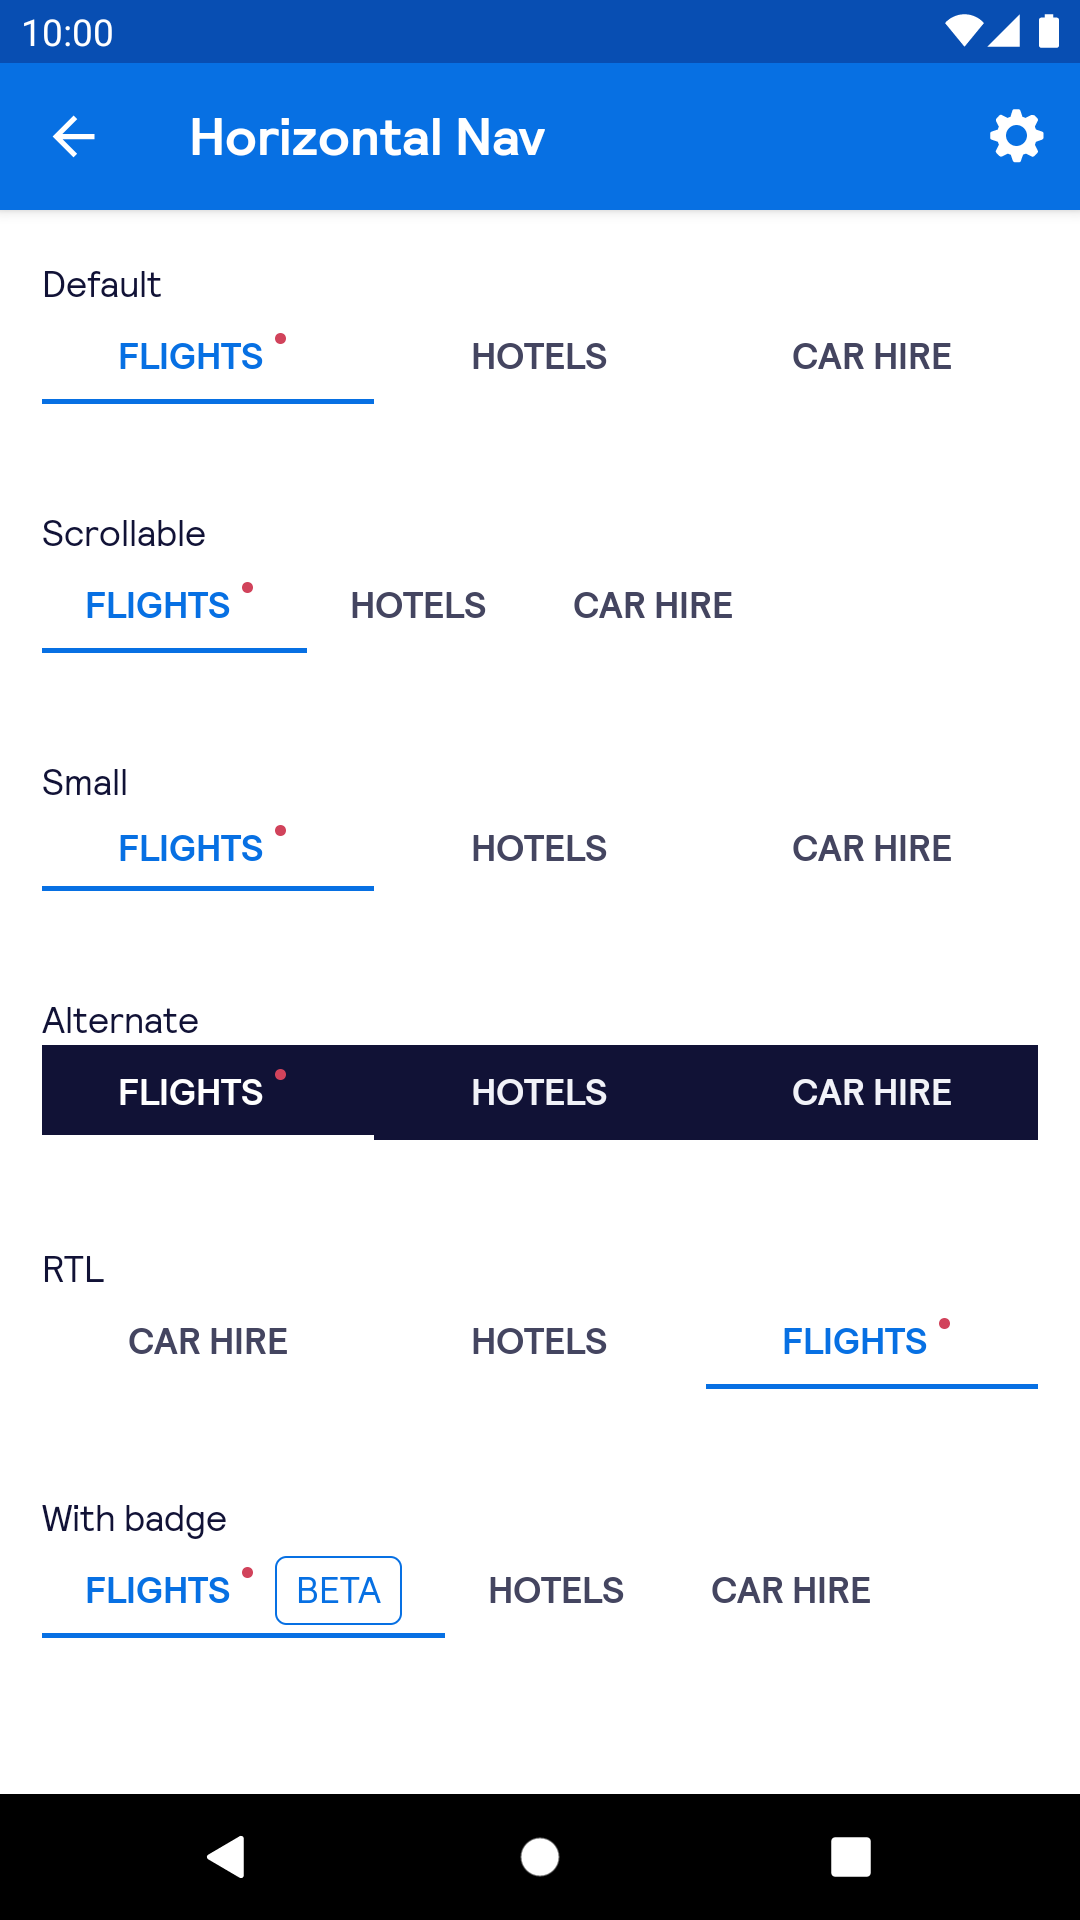
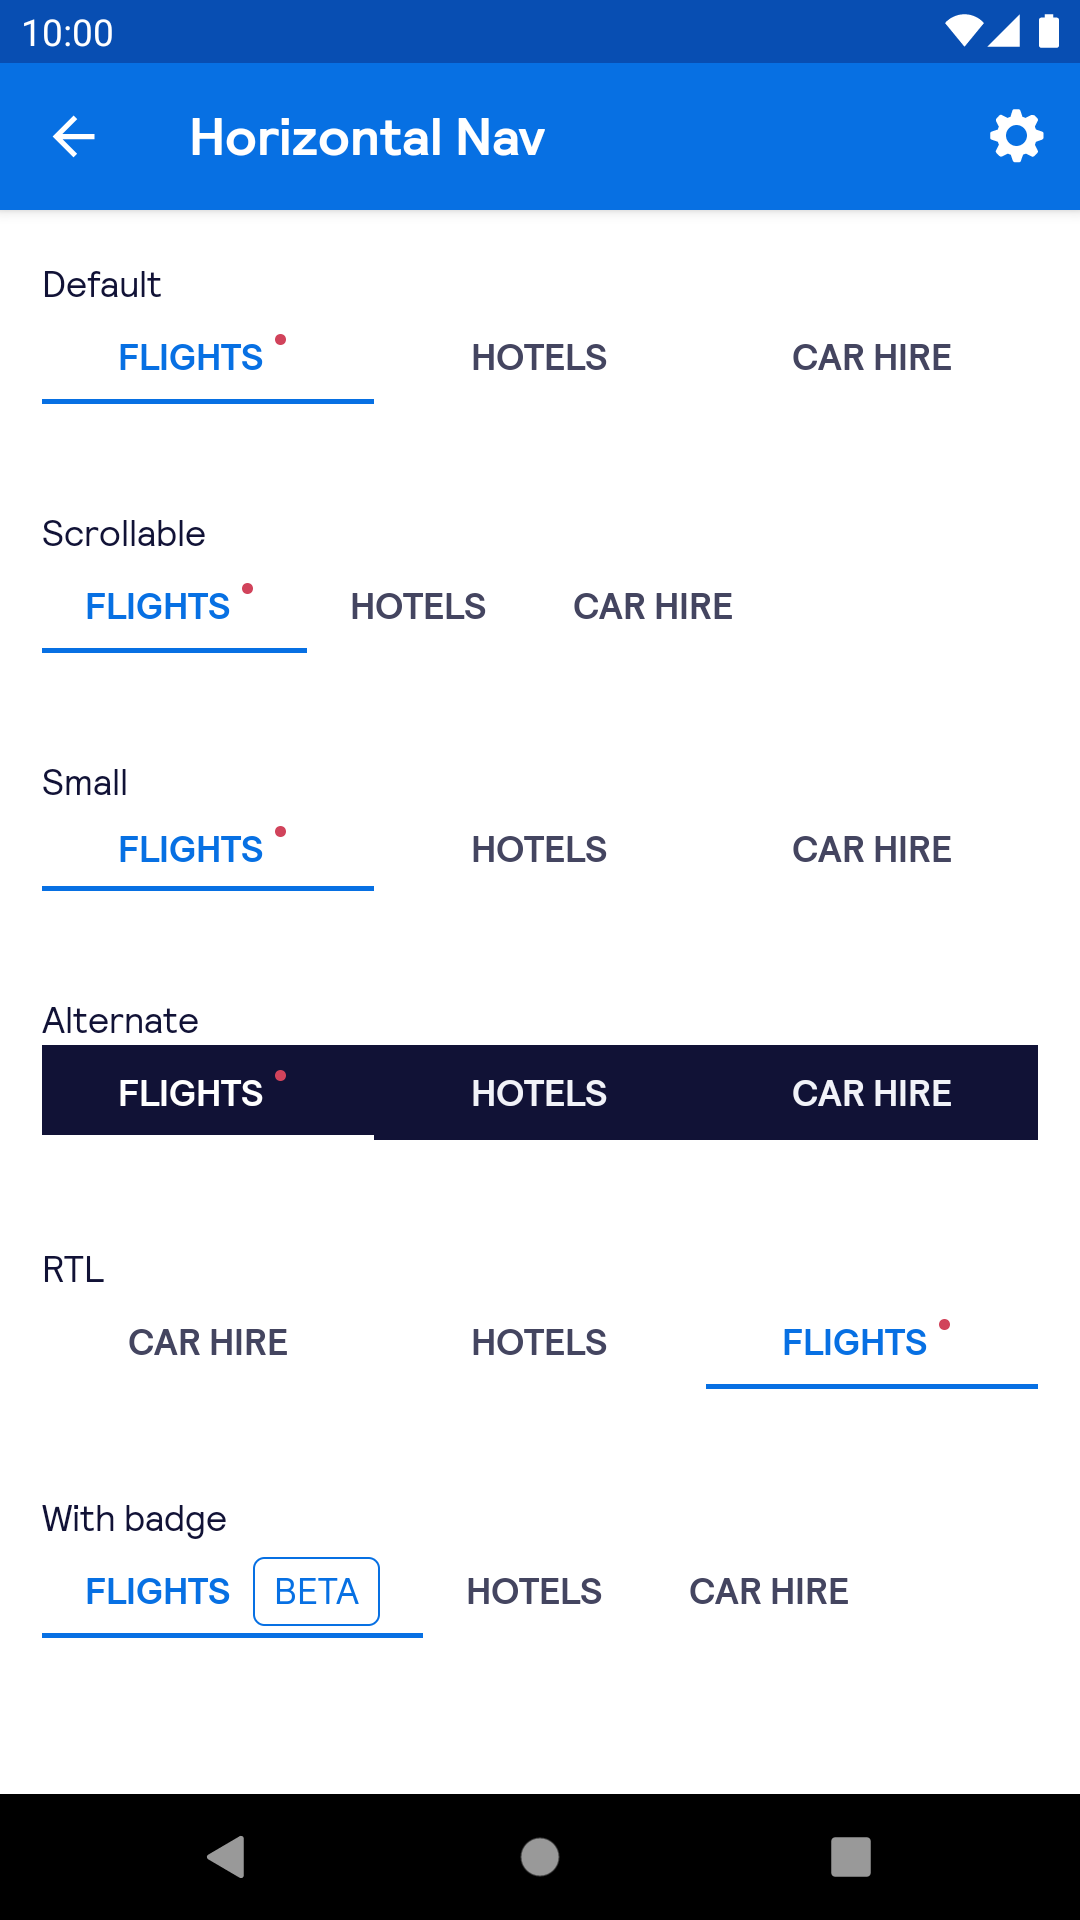
[BPK-3724] Updated the screenshots and samples.

diff --git a/app/src/main/java/net/skyscanner/backpack/demo/stories/HorizontalNavStory.kt b/app/src/main/java/net/skyscanner/backpack/demo/stories/HorizontalNavStory.kt
@@ -21,9 +21,10 @@ class HorizontalNavStory : Story() {
     horizontalNav.addTab(horizontalNav.newTab().setText("Flights"))
     horizontalNav.addTab(horizontalNav.newTab().setText("Hotels"))
     horizontalNav.addTab(horizontalNav.newTab().setText("Car Hire"))
-    horizontalNav.setNotificationDot(0, true)
     if (horizontalNav.id == R.id.horizontal_nav_badge) {
       horizontalNav.setBadge(0, "BETA")
+    } else {
+      horizontalNav.setNotificationDot(0, true)
     }
   }
 
